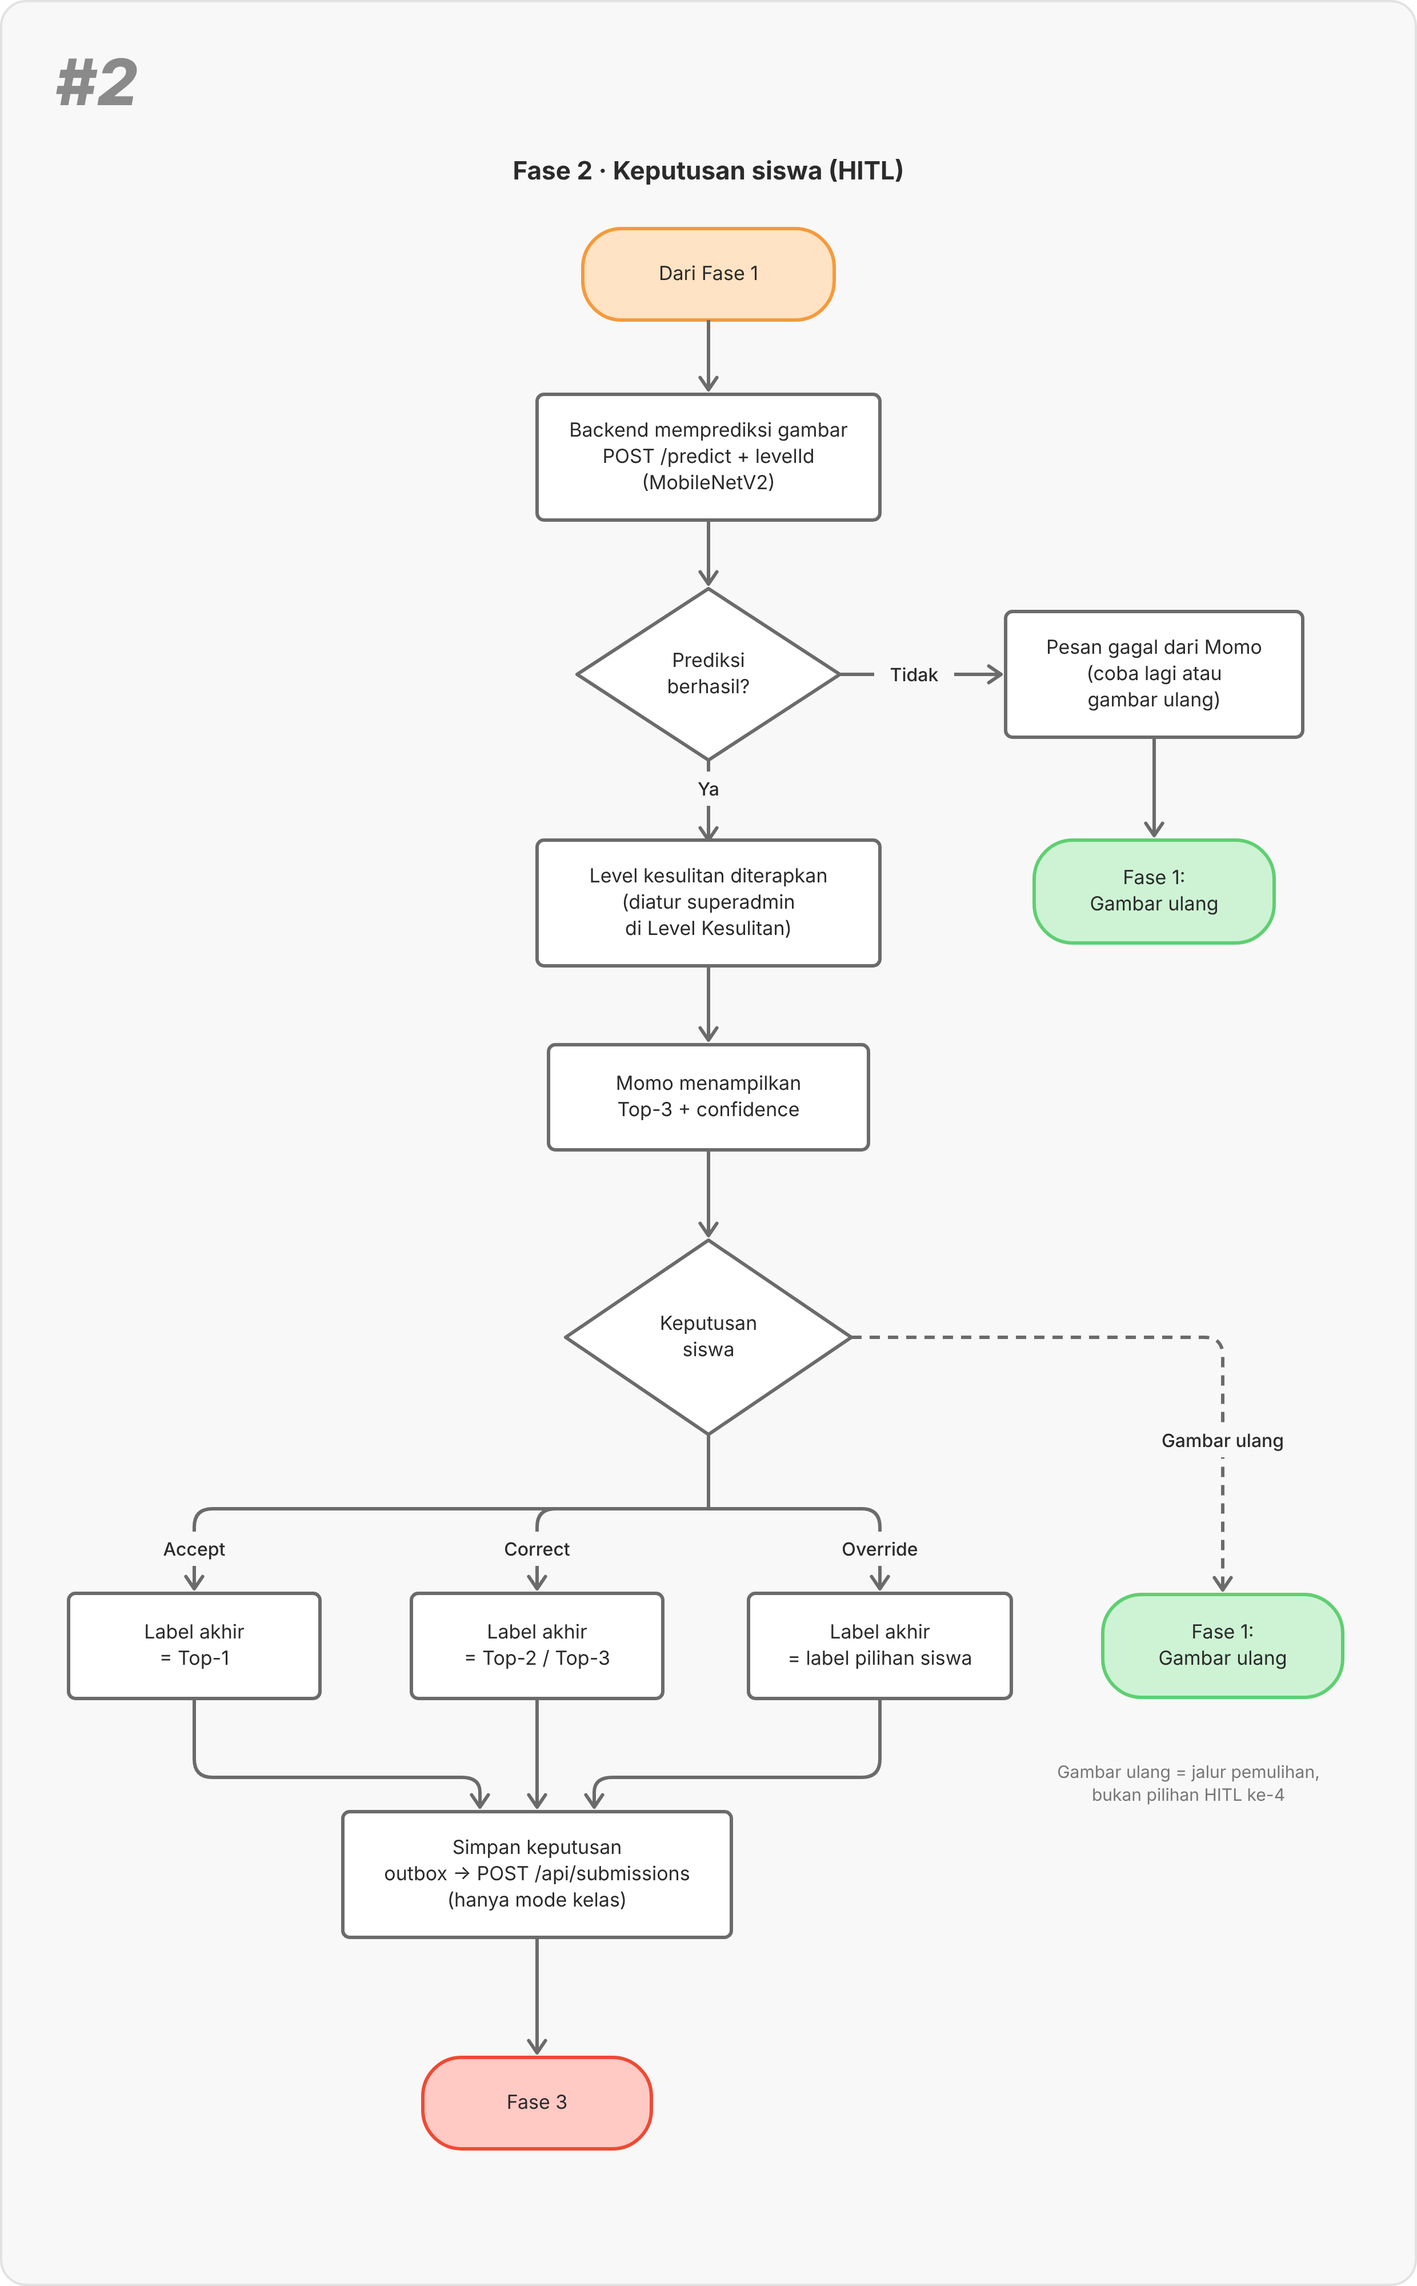
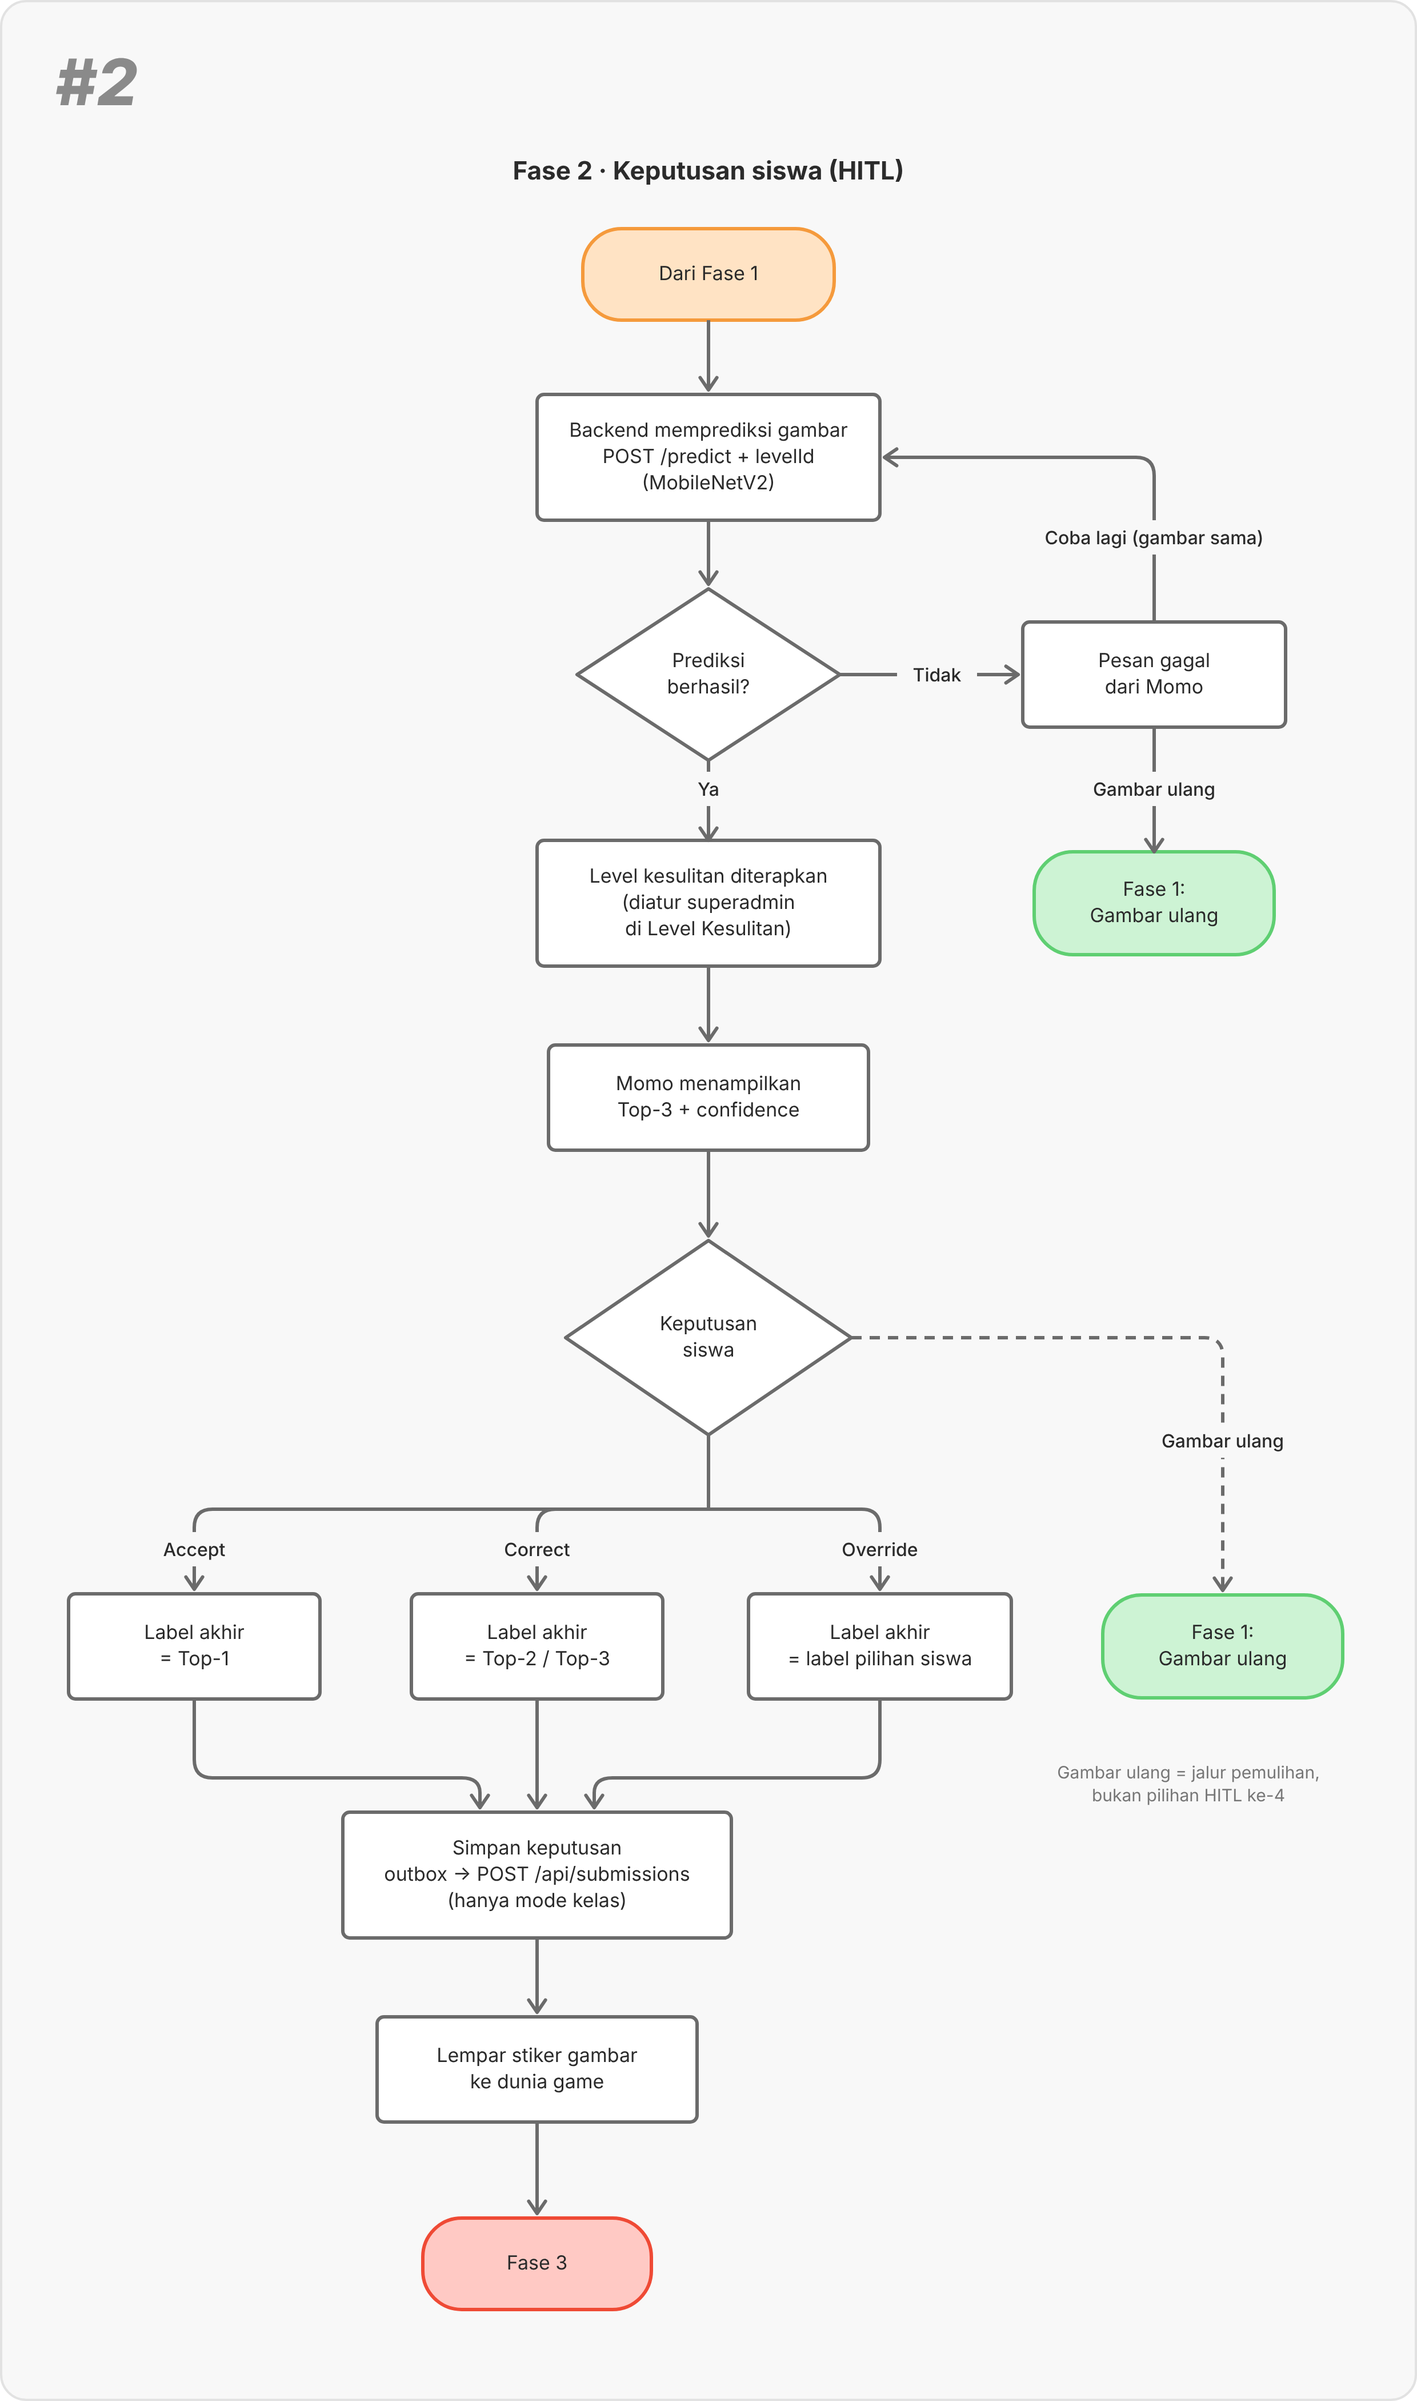
docs: perbaiki diagram agar sesuai sistem sekarang (0.30.3-alpha)

diff --git a/contexts/dias/design/system-diagrams/src/build.py b/contexts/dias/design/system-diagrams/src/build.py
@@ -120,54 +120,54 @@ def badge(s, txt):
 
 # ====================================================================== Phase 1
 def phase1():
-    s = Svg(900, 2330)
+    s = Svg(900, 2380)
     badge(s, "#1")
     s.text(450, 150, "Fase 1 · Membuat input", size=22, weight=700)
     cx = 560
-    t0 = s.term(cx, 240, "Mulai / Splash Screen", w=240)
-    d1 = s.dec(cx, 420, "Dibuka lewat\nlink kelas?")
-    pj = s.proc(cx, 620, "Pilih nomor absen\n+ isi nama\n(token sesi siswa)", w=250, h=110)
-    pf = s.proc(230, 620, "Mode bebas\n(keputusan tidak\ndikirim ke server)", w=230, h=110)
-    pm = s.proc(cx, 800, "Momo menyapa\n+ arahan singkat", w=250)
-    pl = s.proc(cx, 960, "Pilih / lanjut level\n(Level 1 – 3)", w=250)
-    tp = s.term(230, 1110, "Fase 3: level\nbelum selesai", "pink", w=220, h=90)
-    pr = s.proc(cx - 100, 1250, "Level dan rintangan\nditampilkan", w=250)
-    pu = s.proc(cx - 100, 1410, "Siswa memahami\nobjek yang dibutuhkan", w=250)
-    tg = s.term(150, 1550, "Fase 2 / 3:\nGambar ulang", "green", w=210, h=90)
-    pd = s.proc(cx - 210, 1700, "Menggambar objek di kanvas\n(jari + MediaPipe\natau mouse/sentuh)", w=290, h=120)
-    pk = s.proc(cx - 210, 1880, "Kirim gambar\n(Tanya Momo)", w=250)
-    d2 = s.dec(cx - 210, 2060, "Kanvas\nkosong?", w=220, h=150)
-    t2 = s.term(cx - 210, 2250, "Fase 2", "yellow", w=200)
+    t0 = s.term(cx, 240, "Mulai: kamera aktif", w=240)
+    p1 = s.proc(cx, 390, "Lambaikan tangan\nke kamera (atau lewati)", w=260)
+    p2 = s.proc(cx, 540, "Pilih nomor absen\n(penggaris)", w=260)
+    d1 = s.dec(cx, 730, "Dibuka lewat\nlink kelas?")
+    pj = s.proc(cx, 930, "Daftar ke kelas\n(token sesi siswa)", w=250)
+    pf = s.proc(230, 930, "Mode bebas\n(keputusan tidak\ndikirim ke server)", w=230, h=110)
+    pm = s.proc(cx, 1100, "Kartu tutorial\nbersama Momo", w=250)
+    pl = s.proc(cx, 1260, "Pilih level\n(terbuka berurutan)", w=250)
+    pi = s.proc(cx, 1420, "Pengenalan misi level\n(objek yang dibutuhkan)", w=270)
+    tg = s.term(190, 1570, "Gambar ulang /\nobjek berikutnya\n(dari Fase 2 / 3)", "green", w=230, h=100)
+    pd = s.proc(450, 1740, "Menggambar objek di kanvas\n(jari + MediaPipe\natau mouse/sentuh)", w=290, h=120)
+    pk = s.proc(450, 1920, "Selesai menggambar\n(kirim ke Momo)", w=250)
+    d2 = s.dec(450, 2100, "Ada\ngoresan?", w=220, h=150)
+    t2 = s.term(450, 2290, "Fase 2", "yellow", w=200)
 
-    down(s, t0, d1)
-    s.arrow([bot(d1), top(pj)], label="Ya", lpos=(cx, 535))
-    s.arrow([left(d1), (230, 420), top(pf)], label="Tidak", lpos=(330, 420))
+    down(s, t0, p1)
+    down(s, p1, p2)
+    down(s, p2, d1)
+    s.arrow([bot(d1), top(pj)], label="Ya", lpos=(cx, 845))
+    s.arrow([left(d1), (230, 730), top(pf)], label="Tidak", lpos=(330, 730))
     down(s, pj, pm)
-    s.arrow([bot(pf), (230, 800), left(pm)])
+    s.arrow([bot(pf), (230, 1100), left(pm)])
     down(s, pm, pl)
-    s.arrow([bot(pl), (cx, 1160), (pr["x"] + 40, 1160), (pr["x"] + 40, top(pr)[1] - 4)])
-    s.arrow([bot(tp), (230, 1160), (pr["x"] - 40, 1160), (pr["x"] - 40, top(pr)[1] - 4)])
-    down(s, pr, pu)
-    s.arrow([bot(pu), (pu["x"], 1600), (pd["x"] + 40, 1600), (pd["x"] + 40, top(pd)[1] - 4)])
-    s.arrow([bot(tg), (150, 1600), (pd["x"] - 40, 1600), (pd["x"] - 40, top(pd)[1] - 4)])
+    down(s, pl, pi)
+    s.arrow([bot(pi), (cx, 1630), (pd["x"] + 40, 1630), (pd["x"] + 40, top(pd)[1] - 4)])
+    s.arrow([bot(tg), (190, 1650), (pd["x"] - 40, 1650), (pd["x"] - 40, top(pd)[1] - 4)])
     down(s, pd, pk)
     down(s, pk, d2)
-    s.arrow([bot(d2), top(t2)], label="Tidak", lpos=(d2["x"], 2160))
-    s.arrow([right(d2), (720, 2060), (720, 1700), right(pd)], label="Ya: Momo minta\nmenggambar dulu", lpos=(720, 1880))
+    s.arrow([bot(d2), top(t2)], label="Ya", lpos=(450, 2200))
+    s.arrow([right(d2), (760, 2100), (760, 1740), right(pd)], label="Tidak: Momo minta\nmenggambar dulu", lpos=(760, 1920))
     return s
 
 
 # ====================================================================== Phase 2
 def phase2():
-    s = Svg(1240, 2000)
+    s = Svg(1240, 2100)
     badge(s, "#2")
     s.text(620, 150, "Fase 2 · Keputusan siswa (HITL)", size=22, weight=700)
     cx = 620
     t0 = s.term(cx, 240, "Dari Fase 1", "orange", w=220)
     pp = s.proc(cx, 400, "Backend memprediksi gambar\nPOST /predict + levelId\n(MobileNetV2)", w=300, h=110)
     d0 = s.dec(cx, 590, "Prediksi\nberhasil?", w=230, h=150)
-    pe = s.proc(1010, 590, "Pesan gagal dari Momo\n(coba lagi atau\ngambar ulang)", w=260, h=110)
-    tr = s.term(1010, 780, "Fase 1:\nGambar ulang", "green", w=210, h=90)
+    pe = s.proc(1010, 590, "Pesan gagal\ndari Momo", w=230)
+    tr = s.term(1010, 790, "Fase 1:\nGambar ulang", "green", w=210, h=90)
     pk = s.proc(cx, 790, "Level kesulitan diterapkan\n(diatur superadmin\ndi Level Kesulitan)", w=300, h=110)
     pt = s.proc(cx, 960, "Momo menampilkan\nTop-3 + confidence", w=280)
     dk = s.dec(cx, 1170, "Keputusan\nsiswa", w=250, h=170)
@@ -175,13 +175,15 @@ def phase2():
     pc = s.proc(470, 1440, "Label akhir\n= Top-2 / Top-3", w=220)
     po = s.proc(770, 1440, "Label akhir\n= label pilihan siswa", w=230)
     tg = s.term(1070, 1440, "Fase 1:\nGambar ulang", "green", w=210, h=90)
-    ps = s.proc(cx - 150, 1640, "Simpan keputusan\noutbox → POST /api/submissions\n(hanya mode kelas)", w=340, h=110)
-    t3 = s.term(cx - 150, 1840, "Fase 3", "red", w=200)
+    ps = s.proc(470, 1640, "Simpan keputusan\noutbox → POST /api/submissions\n(hanya mode kelas)", w=340, h=110)
+    pl = s.proc(470, 1810, "Lempar stiker gambar\nke dunia game", w=280)
+    t3 = s.term(470, 1980, "Fase 3", "red", w=200)
 
     down(s, t0, pp)
     down(s, pp, d0)
-    s.arrow([right(d0), (left(pe)[0] - 4, 590)], label="Tidak", lpos=(800, 590))
-    down(s, pe, tr)
+    s.arrow([right(d0), (left(pe)[0] - 4, 590)], label="Tidak", lpos=(820, 590))
+    s.arrow([bot(pe), top(tr)], label="Gambar ulang", lpos=(1010, 690))
+    s.arrow([top(pe), (1010, 400), (right(pp)[0] + 4, 400)], label="Coba lagi (gambar sama)", lpos=(1010, 470))
     s.arrow([bot(d0), top(pk)], label="Ya", lpos=(cx, 690))
     down(s, pk, pt)
     down(s, pt, dk)
@@ -193,50 +195,59 @@ def phase2():
     ym = 1555
     for n in (pa, pc, po):
         s.arrow([bot(n), (n["x"], ym), (ps["x"] + (n["x"] - pc["x"]) / 6, ym), (ps["x"] + (n["x"] - pc["x"]) / 6, top(ps)[1] - 4)])
-    down(s, ps, t3)
+    down(s, ps, pl)
+    down(s, pl, t3)
     s.text(1040, 1560, "Gambar ulang = jalur pemulihan,\nbukan pilihan HITL ke-4", size=15, color="#777")
     return s
 
 
 # ====================================================================== Phase 3
 def phase3():
-    s = Svg(1200, 2360)
+    s = Svg(1240, 2400)
     badge(s, "#3")
-    s.text(560, 150, "Fase 3 · Konsekuensi di gameplay", size=22, weight=700)
-    cx = 560
+    s.text(620, 150, "Fase 3 · Konsekuensi di gameplay", size=22, weight=700)
+    cx = 620
     t0 = s.term(cx, 240, "Dari Fase 2", "red", w=220)
-    pj = s.proc(cx, 400, "Objek jatuh dan\nditempatkan di dunia game", w=280)
-    db = s.dec(cx, 610, "Perilaku\nobjek", w=230, h=160)
-    pdg = s.proc(190, 860, "Objek membahayakan\n(Danger)", w=240)
-    pn = s.proc(cx, 860, "Objek tidak membantu\n(Unresolved)", w=240)
-    ps = s.proc(930, 860, "Objek membantu\nstickman (Solid)", w=240)
-    pf = s.proc(375, 1060, "Outcome: gagal\nMomo memberi umpan balik", w=300)
-    tg = s.term(375, 1250, "Fase 1:\nGambar ulang", "green", w=210, h=90)
-    pg = s.proc(930, 1060, "Stickman bergerak\n(gameplay 2D, KAPLAY)", w=260)
-    dh = s.dec(930, 1270, "Rintangan\nterlewati?", w=230, h=160)
-    po = s.proc(930, 1490, "Kirim outcome\nPATCH /api/submissions/{id}/outcome\n(hanya mode kelas)", w=400, h=110)
-    dl = s.dec(930, 1720, "Level\nselesai?", w=220, h=150)
-    tp = s.term(620, 1960, "Fase 1: level\nbelum selesai", "pink", w=220, h=90)
-    tf = s.term(930, 1960, "Ringkasan level\n(refleksi)", "plain", w=240, h=90)
-    td = s.term(930, 2150, "Selesai / level berikutnya", "plain", w=290, h=80)
+    pj = s.proc(cx, 390, "Objek jatuh ke\ndunia game", w=260)
+    pp = s.proc(cx, 550, "Siswa menempatkan /\nmenggeser objek", w=260)
+    db = s.dec(cx, 760, "Perilaku\nobjek", w=230, h=160)
+    xs = (170, 470, 770, 1070)
+    pdg = s.proc(xs[0], 1020, "Danger\n(membahayakan)", w=230)
+    pn = s.proc(xs[1], 1020, "Neutral\n(tidak membantu)", w=230)
+    pu = s.proc(xs[2], 1020, "Unresolved\n(label tak dikenal\ndi level ini)", w=230, h=110)
+    ps = s.proc(xs[3], 1020, "Solid\n(membantu stickman)", w=230)
+    pg = s.proc(cx, 1230, "Stickman bergerak\n(gameplay 2D, KAPLAY)", w=280)
+    dh = s.dec(cx, 1430, "Rintangan\nterlewati?", w=230, h=160)
+    pf = s.proc(250, 1430, "Outcome: gagal\nMomo memberi umpan balik", w=300)
+    tg = s.term(250, 1620, "Fase 1: gambar ulang\n(level yang sama)", "green", w=260, h=90)
+    pok = s.proc(cx, 1640, "Outcome: berhasil", w=260, h=80)
+    dl = s.dec(cx, 1830, "Level\nselesai?", w=220, h=150)
+    tn = s.term(990, 1830, "Fase 1: gambar\nobjek berikutnya", "green", w=240, h=90)
+    d3 = s.dec(cx, 2050, "Level 3?", w=200, h=140)
+    pr = s.term(250, 2050, "Ringkasan level\n→ daftar level", "plain", w=250, h=90)
+    pe = s.term(cx, 2250, "Penutup cerita (ending)", "plain", w=290, h=80)
 
     down(s, t0, pj)
-    down(s, pj, db)
-    s.arrow([left(db), (190, 610), top(pdg)], label="Danger", lpos=(300, 610))
-    s.arrow([bot(db), top(pn)], label="Unresolved", lpos=(cx, 750))
-    s.arrow([right(db), (930, 610), top(ps)], label="Solid", lpos=(820, 610))
-    s.arrow([bot(pdg), (190, 960), (335, 960), (335, top(pf)[1] - 4)])
-    s.arrow([bot(pn), (cx, 960), (415, 960), (415, top(pf)[1] - 4)])
-    down(s, pf, tg)
-    down(s, ps, pg)
+    down(s, pj, pp)
+    down(s, pp, db)
+    yb = 900
+    s.arrow([bot(db), (cx, yb)], head=False)
+    for n, x in zip((pdg, pn, pu, ps), xs):
+        s.arrow([(cx, yb), (x, yb), (x, top(n)[1] - 4)])
+    ym = 1130
+    for n, x in zip((pdg, pn, pu, ps), xs):
+        tx = cx + (x - cx) / 8
+        s.arrow([bot(n), (x, ym), (tx, ym), (tx, top(pg)[1] - 4)])
     down(s, pg, dh)
-    s.arrow([left(dh), (700, 1270), (700, 1060), (right(pf)[0] + 4, 1060)], label="Tidak", lpos=(700, 1170))
-    s.arrow([bot(dh), top(po)], label="Ya", lpos=(930, 1380))
-    down(s, po, dl)
-    s.arrow([left(dl), (620, 1720), top(tp)], label="Belum", lpos=(700, 1720))
-    s.arrow([bot(dl), top(tf)], label="Ya", lpos=(930, 1850))
-    down(s, tf, td)
-    s.text(375, 1400, "Outcome gagal juga dikirim\nke server (mode kelas)", size=15, color="#777")
+    s.arrow([left(dh), (right(pf)[0] + 4, 1430)], label="Tidak", lpos=(450, 1430))
+    down(s, pf, tg)
+    s.arrow([bot(dh), top(pok)], label="Ya", lpos=(cx, 1540))
+    down(s, pok, dl)
+    s.arrow([right(dl), (left(tn)[0] - 4, 1830)], label="Belum", lpos=(800, 1830))
+    s.arrow([bot(dl), top(d3)], label="Ya", lpos=(cx, 1940))
+    s.arrow([left(d3), (right(pr)[0] + 4, 2050)], label="Tidak", lpos=(450, 2050))
+    s.arrow([bot(d3), top(pe)], label="Ya", lpos=(cx, 2160))
+    s.text(990, 1500, "Setiap outcome (berhasil / gagal)\ndikirim ke server:\nPATCH /api/submissions/{id}/outcome\n(hanya mode kelas)", size=15, color="#777")
     return s
 
 
@@ -327,7 +338,7 @@ def system():
         ("Kamera", "gerakan jari\n(MediaPipe Hands)"),
         ("Kanvas", "goresan gambar\n(jari / mouse / sentuh)"),
         ("Keputusan siswa", "Accept / Correct /\nOverride (+ Gambar ulang)"),
-        ("Akses kelas", "link kelas +\nnomor absen + nama"),
+        ("Akses kelas", "link kelas +\nnomor absen"),
         ("Pengaturan admin", "kelas, sekolah,\nlevel kesulitan"),
     ]):
         card(65, 220 + i * 178, 250, 150, t, sub)
@@ -345,7 +356,7 @@ def system():
         card(1160 + i * 205, 215, 190, 185, t, sub)
     # Layer 3 - green
     panel(700, 500, 800, 230, "LAYER 3 · KEPUTUSAN (HITL)", "#dbf5df", "#78d08a")
-    for i, (t, sub) in enumerate([("Decision resolver", "Accept / Correct /\nOverride → label akhir"), ("Pemetaan objek", "label → Solid /\nDanger / Unresolved"), ("Gambar ulang", "jalur pemulihan,\nkembali ke kanvas")]):
+    for i, (t, sub) in enumerate([("Decision resolver", "Accept / Correct /\nOverride → label akhir"), ("Pemetaan objek", "label → Solid / Danger /\nNeutral / Unresolved"), ("Gambar ulang", "jalur pemulihan,\nkembali ke kanvas")]):
         card(720 + i * 260, 525, 240, 185, t, sub)
     # Layer 4 (Dias) - blue
     panel(420, 820, 1360, 260, "LAYER 4 · DATA & DASHBOARD (Dias)", "#dcecff", "#7fb2f0")
@@ -365,7 +376,7 @@ def system():
         ("Prototipe literasi AI", "simulasi berlevel\nuntuk siswa SMP"),
         ("Hasil gameplay", "berhasil / gagal\nper percobaan"),
         ("Dashboard guru", "jawaban & gambar\nper siswa"),
-        ("Data keputusan", "Accept/Correct/Override\nuntuk analisis pola"),
+        ("Data keputusan", "Accept/Correct/Override\nsiap diekspor untuk analisis"),
     ]):
         card(1885, 230 + i * 215, 250, 180, t, sub)
 

diff --git a/backend/app/main.py b/backend/app/main.py
@@ -11,7 +11,7 @@ from .db import get_db, init_db
 from .difficulty import apply_difficulty, difficulty_enabled, effective_difficulty
 from .inference import load_model, predict_from_drawing, predict_probs
 
-app = FastAPI(title="Momo Backend", version="0.30.2-alpha")
+app = FastAPI(title="Momo Backend", version="0.30.3-alpha")
 app.include_router(dashboard.router)
 app.include_router(classroom.router)
 

diff --git a/CHANGELOG.md b/CHANGELOG.md
@@ -46,6 +46,7 @@ Versi `-alpha.N` lama dipetakan ke versi baru dari push terakhir grup lama (kolo
 
 | Versi | Tanggal | Tipe | Commit |
 |---|---|---|---|
+| 0.30.3-alpha | 2026-11-26 | Dokumen | `(0.30.3-alpha)` |
 | 0.30.2-alpha | 2026-11-26 | Dokumen | `(0.30.2-alpha)` |
 | 0.30.1-alpha | 2026-11-25 | Dokumen | `(0.30.1-alpha)` |
 | 0.30.0-alpha | 2026-11-25 | Fitur | `(0.30.0-alpha)` |
@@ -139,6 +140,19 @@ Versi `-alpha.N` lama dipetakan ke versi baru dari push terakhir grup lama (kolo
 | 0.2.0-alpha | 2026-11-09 | Fitur | `dd46572` |
 | 0.1.1-alpha | 2026-11-09 | Dokumen | `0a2c4ed` (dengan `05b3558`) |
 | 0.1.0-alpha | 2026-11-09 | Fitur | `fe73df3` |
+
+---
+
+## 0.30.3-alpha — 2026-11-26 — Dokumen
+
+**Sumber:** Dias 2026-11-26
+
+**Perubahan:**
+- Diagram: alur onboarding nyata (lambai tangan, nomor absen tanpa nama), Coba lagi + Lempar di Fase 2, 4 perilaku objek + penempatan + ending di Fase 3
+
+**Commit:** commit berjudul `(0.30.3-alpha)`
+
+**Bukti:** STATIC_ONLY; dicocokkan dengan kode main 8495201, dirender Playwright dan dicek visual
 
 ---
 
